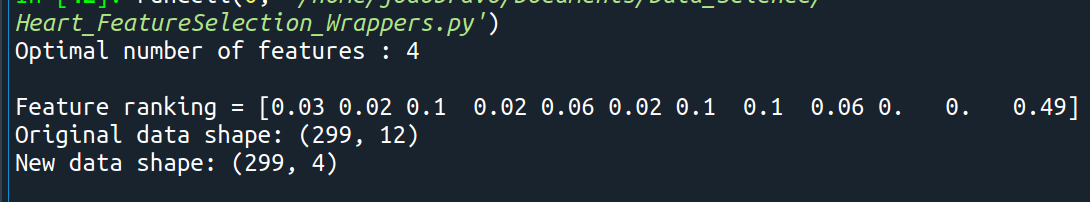
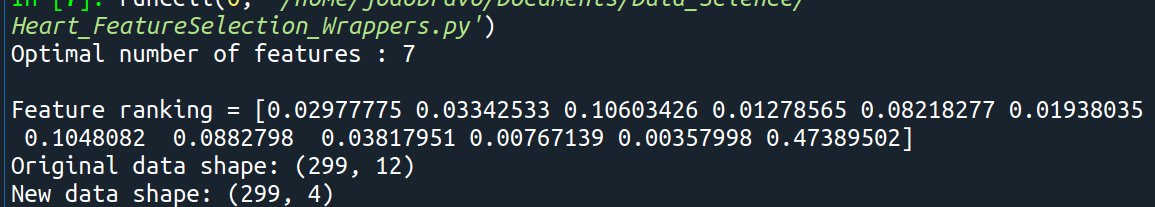
FeatureSelection DecisionTree wrapper done

Changed region(s): [[0.0, 0.0, 0.9982, 1.0]]

diff --git a/Heart_FeatureSelection_Wrappers.py b/Heart_FeatureSelection_Wrappers.py
@@ -11,11 +11,11 @@ from sklearn.feature_selection import RFECV, SelectFromModel
 data: pd.DataFrame = pd.read_csv('data/heart_failure_clinical_records_dataset.csv')
 y: np.ndarray = data.pop('DEATH_EVENT').values
 X: np.ndarray = data.values
-labels = pd.unique(y)
+# labels = pd.unique(y)
 
 ##### RFECV (recursive feature elemination with crossVal)
-classifier = DecisionTreeClassifier(min_samples_leaf=1, max_depth=None, criterion='entropy', min_impurity_decrease=0.02)
-rfecv = RFECV(estimator=classifier, step=1, cv=StratifiedKFold(5), scoring='accuracy')
+classifier = DecisionTreeClassifier(min_samples_leaf=1, criterion='entropy')
+rfecv = RFECV(estimator=classifier, step=1, cv=StratifiedKFold(5), scoring='accuracy', n_jobs=-1)
 rfecv.fit(X, y)
 
 # plot results

diff --git a/Toxic_FeatureSelection_Wrappers.py b/Toxic_FeatureSelection_Wrappers.py
@@ -11,11 +11,11 @@ from sklearn.feature_selection import RFECV, SelectFromModel
 data: pd.DataFrame = pd.read_csv('data/qsar_oral_toxicity.csv', header=None, sep =';')
 y: np.ndarray = data.pop(1024).values
 X: np.ndarray = data.values
-labels = pd.unique(y)
+# labels = pd.unique(y)
 
 ##### RFECV (recursive feature elemination with crossVal)
-classifier = DecisionTreeClassifier(min_samples_leaf=1, max_depth=None, criterion='entropy', min_impurity_decrease=0.02)
-rfecv = RFECV(estimator=classifier, step=1, cv=StratifiedKFold(5), scoring='accuracy')
+classifier = DecisionTreeClassifier(min_samples_leaf=1, criterion='entropy')
+rfecv = RFECV(estimator=classifier, step=1, cv=StratifiedKFold(5), scoring='accuracy', n_jobs=-1)
 rfecv.fit(X, y)
 
 # plot results
